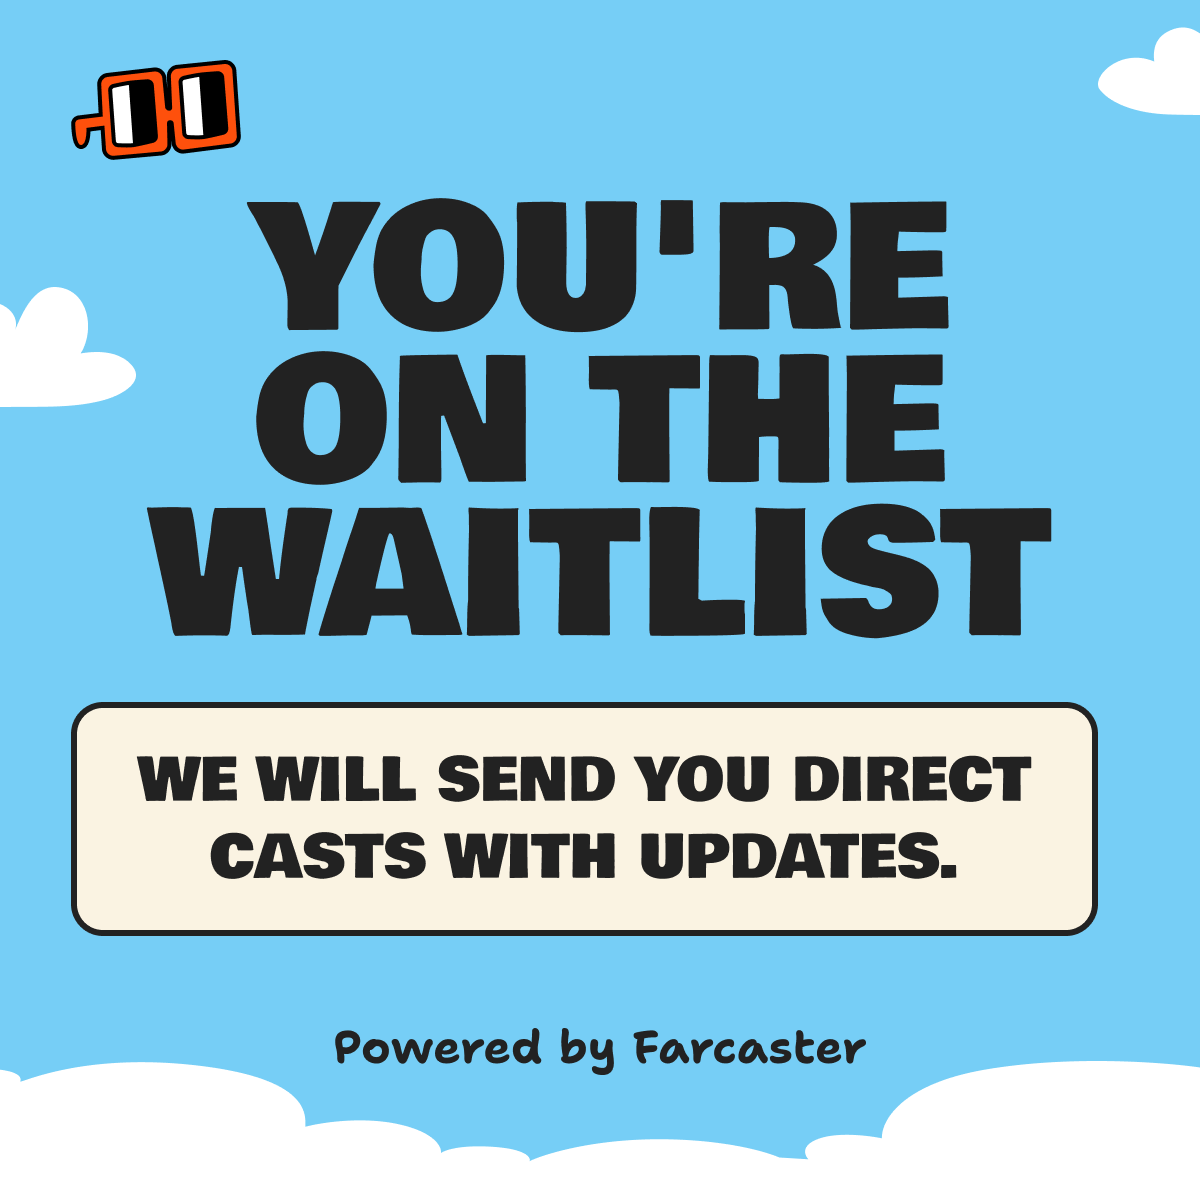
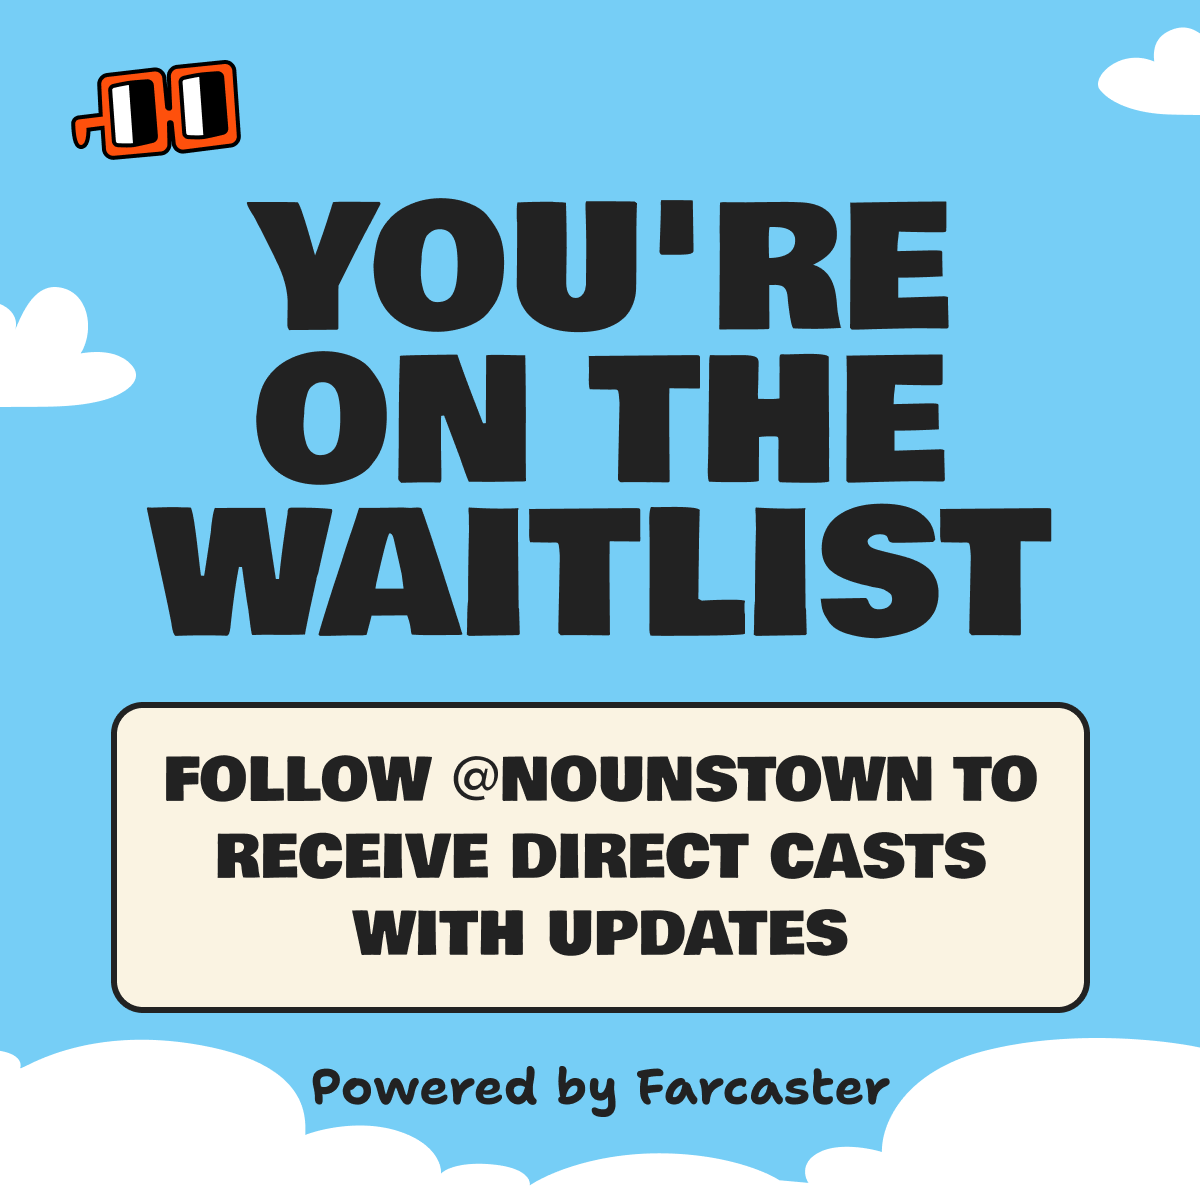
Finished Nouns town frame (#60)

Changed region(s): [[0.0, 0.5858, 1.0, 0.9867]]

diff --git a/web/src/app/nouns-town/(frames)/join-waitlist/route.tsx b/web/src/app/nouns-town/(frames)/join-waitlist/route.tsx
@@ -1,10 +1,11 @@
-import { frameErrorResponse, frameResponse } from "@/common/utils/frameResponse";
-import { getUserInfo } from "@/utils/farcaster";
+import { frameResponse } from "@/common/utils/frameResponse";
 import { localImageUrl, relativeEndpointUrl } from "@/utils/urlHelpers";
 import { FrameRequest } from "@coinbase/onchainkit/frame";
-import { addUserToWaitlist, isUserOnWaitlist } from "../../data/waitlist";
+import { addUserToWaitlist } from "../../data/waitlist";
 
-const NOUN_TOWN_USER_ID = 533619;
+const NOUNS_TOWN_USER_ID = 749097;
+const NOUNS_TOWN_CHANNEL_ID = "nounstown";
+
 const SHARE_LINK_PARAMS: string = new URLSearchParams([
   ["text", "I joined the Nouns Town waitlist, don't miss out!"],
   ["embeds[]", `${process.env.NEXT_PUBLIC_URL}/nouns-town`],
@@ -14,22 +15,22 @@ export async function POST(req: Request): Promise<Response> {
   const frameRequest: FrameRequest = await req.json();
   const userFid = frameRequest.untrustedData.fid;
 
-  const alreadyOnWaitlist = await isUserOnWaitlist(userFid);
-  console.log("ON WAITLIST", alreadyOnWaitlist);
-  if (!alreadyOnWaitlist) {
-    const userWithViewerContext = await getUserInfo(userFid, NOUN_TOWN_USER_ID);
-    const isFollowing = userWithViewerContext.viewer_context?.followed_by; // If the viewer (nouns town) is followed by the user
-    console.log("FOLLOWING", isFollowing);
-    if (!isFollowing) {
-      return frameErrorResponse("Error: Must follow @nounstown to join waitlist & get DCs. Retry after following.");
-    }
+  // Don't do the follow checks, tradeoff for better UX
+  // const alreadyOnWaitlist = await isUserOnWaitlist(userFid);
+  // if (!alreadyOnWaitlist) {
+  //   // const isFollowingUser = await isUserFollowingUser(userFid, NOUNS_TOWN_USER_ID);
+  //   // const isFollowingChannel = isFollowingUser && (await isUserFollowingChannel(userFid, NOUNS_TOWN_CHANNEL_ID));
+  //   // if (!isFollowingUser || !isFollowingChannel) {
+  //   //   return frameErrorResponse("Must follow @nounstown.eth + /nounstown to RSVP. Retry 2min after following.");
+  //   // }
 
-    await addUserToWaitlist(userFid);
-  }
+  //   await addUserToWaitlist(userFid);
+  // }
+  addUserToWaitlist(userFid);
 
   return frameResponse({
     req,
-    browserRedirectUrl: "https://paperclip.xyz", // TODO: replace with actual once launched
+    browserRedirectUrl: "https://warpcast.com/~/channel/nounstown", // TODO: replace with actual once launched
     ogTitle: "Nouns Town",
     appName: "nouns-town",
     postUrl: relativeEndpointUrl(req, ""),
@@ -44,6 +45,8 @@ export async function POST(req: Request): Promise<Response> {
         action: "link",
         target: `https://warpcast.com/~/compose?${SHARE_LINK_PARAMS}`,
       },
+      { label: "Follow @nounstown", action: "link", target: "https://warpcast.com/nounstown.eth" },
+      { label: "Follow /nounstown", action: "link", target: "https://warpcast.com/~/channel/nounstown" },
     ],
   });
 }

diff --git a/web/src/common/farcaster/user.tsx b/web/src/common/farcaster/user.tsx
@@ -1,0 +1,37 @@
+import { User as FarcasterUser } from "@neynar/nodejs-sdk/build/neynar-api/v2";
+import { unstable_cache } from "next/cache";
+
+interface FCUser extends FarcasterUser {
+  power_badge: boolean;
+}
+
+export async function getUserInfo(fid: number, viewerFid?: number): Promise<FCUser> {
+  const url = `https://api.neynar.com/v2/farcaster/user/bulk?fids=${fid}${
+    viewerFid != undefined && "&viewer_fid=" + viewerFid
+  }`;
+  const req = await fetch(url, {
+    headers: {
+      api_key: process.env.NEYNAR_API_KEY!,
+    },
+    next: {
+      revalidate: 0,
+    },
+  });
+
+  const resp = await req.json();
+  const user = resp["users"][0] as FCUser;
+
+  return user;
+}
+
+async function isUserFollowingUserUncached(userFid: number, isBeingFollowedFid: number): Promise<boolean> {
+  console.log("CACHE SKIP");
+  const userWithViewerContext = await getUserInfo(userFid, isBeingFollowedFid);
+  console.log("CACHE SKIP - DONE");
+  return userWithViewerContext.viewer_context?.followed_by ?? false;
+}
+
+// Unstable cache to avoid stale while revalidate
+export const isUserFollowingUser = unstable_cache(isUserFollowingUserUncached, ["is-user-following-user"], {
+  revalidate: 15,
+});

diff --git a/web/src/common/farcaster/channel.tsx b/web/src/common/farcaster/channel.tsx
@@ -1,0 +1,37 @@
+async function getUserChannels(fid: number): Promise<string[]> {
+  async function makePagenatedRequest(cursor: string | undefined) {
+    const res = await fetch(
+      `https://api.neynar.com/v2/farcaster/user/channels?fid=${fid}&limit=100${cursor ? "&cursor=" + cursor : ""}`,
+      {
+        headers: {
+          api_key: process.env.NEYNAR_API_KEY!,
+        },
+        next: {
+          revalidate: 0,
+        },
+      }
+    );
+    return await res.json();
+  }
+
+  let cursor = undefined;
+  let channelIds: string[] = [];
+  do {
+    const resp = await makePagenatedRequest(cursor);
+    try {
+      channelIds = channelIds.concat(resp["channels"].map((c: any) => c["id"]));
+      cursor = resp["next"]["cursor"];
+    } catch (e) {
+      console.error("getUserChannels: api error - ", e, resp);
+      cursor = undefined;
+    }
+  } while (cursor != undefined);
+
+  channelIds = Array.from(new Set(channelIds)); // Remove any duplicates
+  return channelIds;
+}
+
+export async function isUserFollowingChannel(fid: number, channelId: string): Promise<boolean> {
+  const channelIds = await getUserChannels(fid);
+  return channelIds.includes(channelId);
+}

diff --git a/web/src/app/nouns-town/(frames)/[id]/route.tsx b/web/src/app/nouns-town/(frames)/[id]/route.tsx
@@ -11,7 +11,7 @@ async function response(req: Request, { params }: { params: { id: string } }): P
 
   return frameResponse({
     req,
-    browserRedirectUrl: "https://paperclip.xyz", // TODO: replace with actual once launched
+    browserRedirectUrl: "https://warpcast.com/~/channel/nounstown", // TODO: replace with actual once launched
     ogTitle: "Nouns Town",
     appName: "nouns-town",
     postUrl: relativeEndpointUrl(req, ""),

diff --git a/web/src/app/nouns-town/data/waitlist.ts b/web/src/app/nouns-town/data/waitlist.ts
@@ -11,7 +11,7 @@ export async function isUserOnWaitlist(fid: number): Promise<boolean> {
 }
 
 export async function addUserToWaitlist(fid: number) {
-  const { error } = await supabase.from("nouns-town-waitlist").insert({ fid });
+  const { error } = await supabase.from("nouns-town-waitlist").upsert({ fid });
   if (error) {
     console.error(`Error adding user to waitlist: ${fid} - ${JSON.stringify(error)}`);
   }

diff --git a/web/src/middleware.ts b/web/src/middleware.ts
@@ -29,7 +29,7 @@ export function middleware(request: NextRequest) {
 
   const host = request.headers.get("host");
   const fullUrl = request.nextUrl.clone();
-  if (process.env.NODE_ENV === "development") {
+  if (process.env.NODE_ENV === "development" || host?.includes("localhost")) {
     // Don't redirect in development
     return NextResponse.next();
   }

diff --git a/web/src/common/utils/analytics.ts b/web/src/common/utils/analytics.ts
@@ -6,8 +6,6 @@ umami.init({
 });
 
 export async function trackEvent(name: string, payload: Record<string, string | number>) {
-  console.log("TRACKING EVENT", name, payload);
-
   // Umami
   if (process.env.NEXT_PUBLIC_UMAMI_WEBSITE_ID) {
     try {
